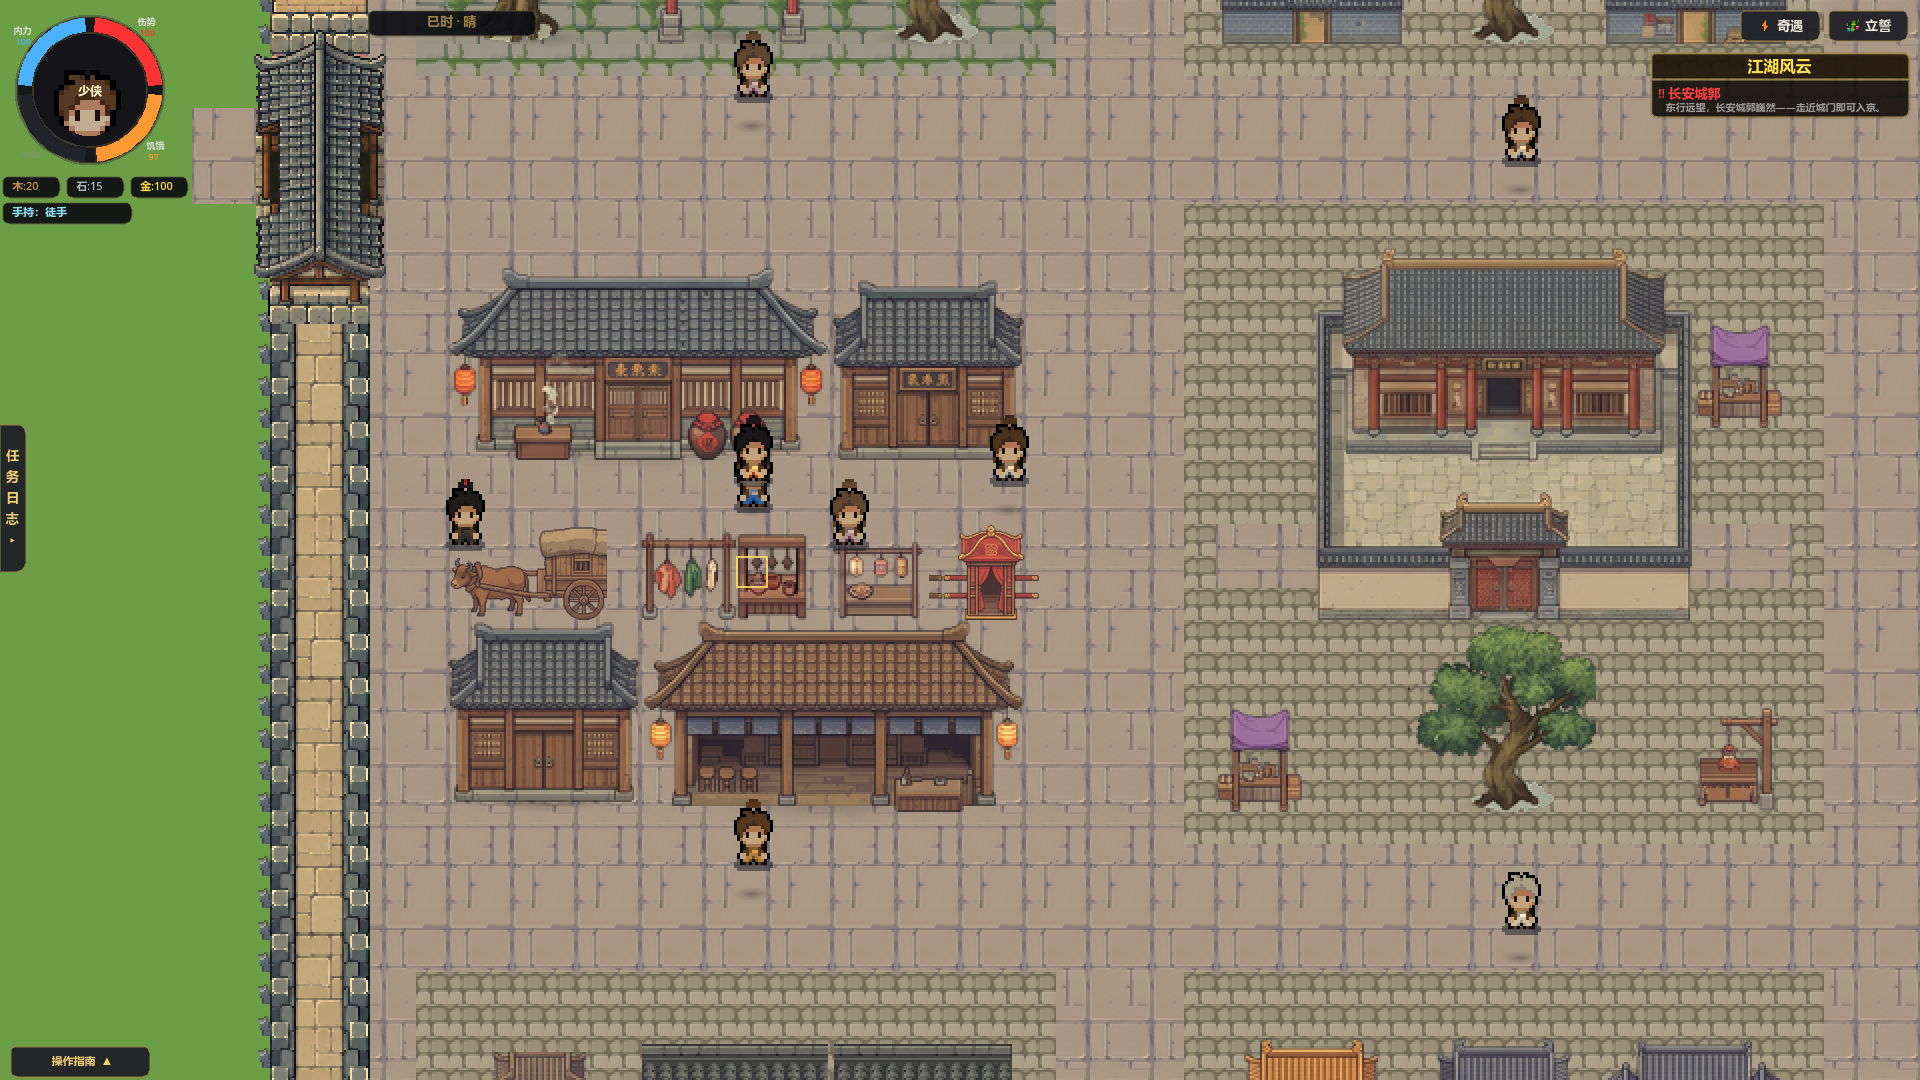
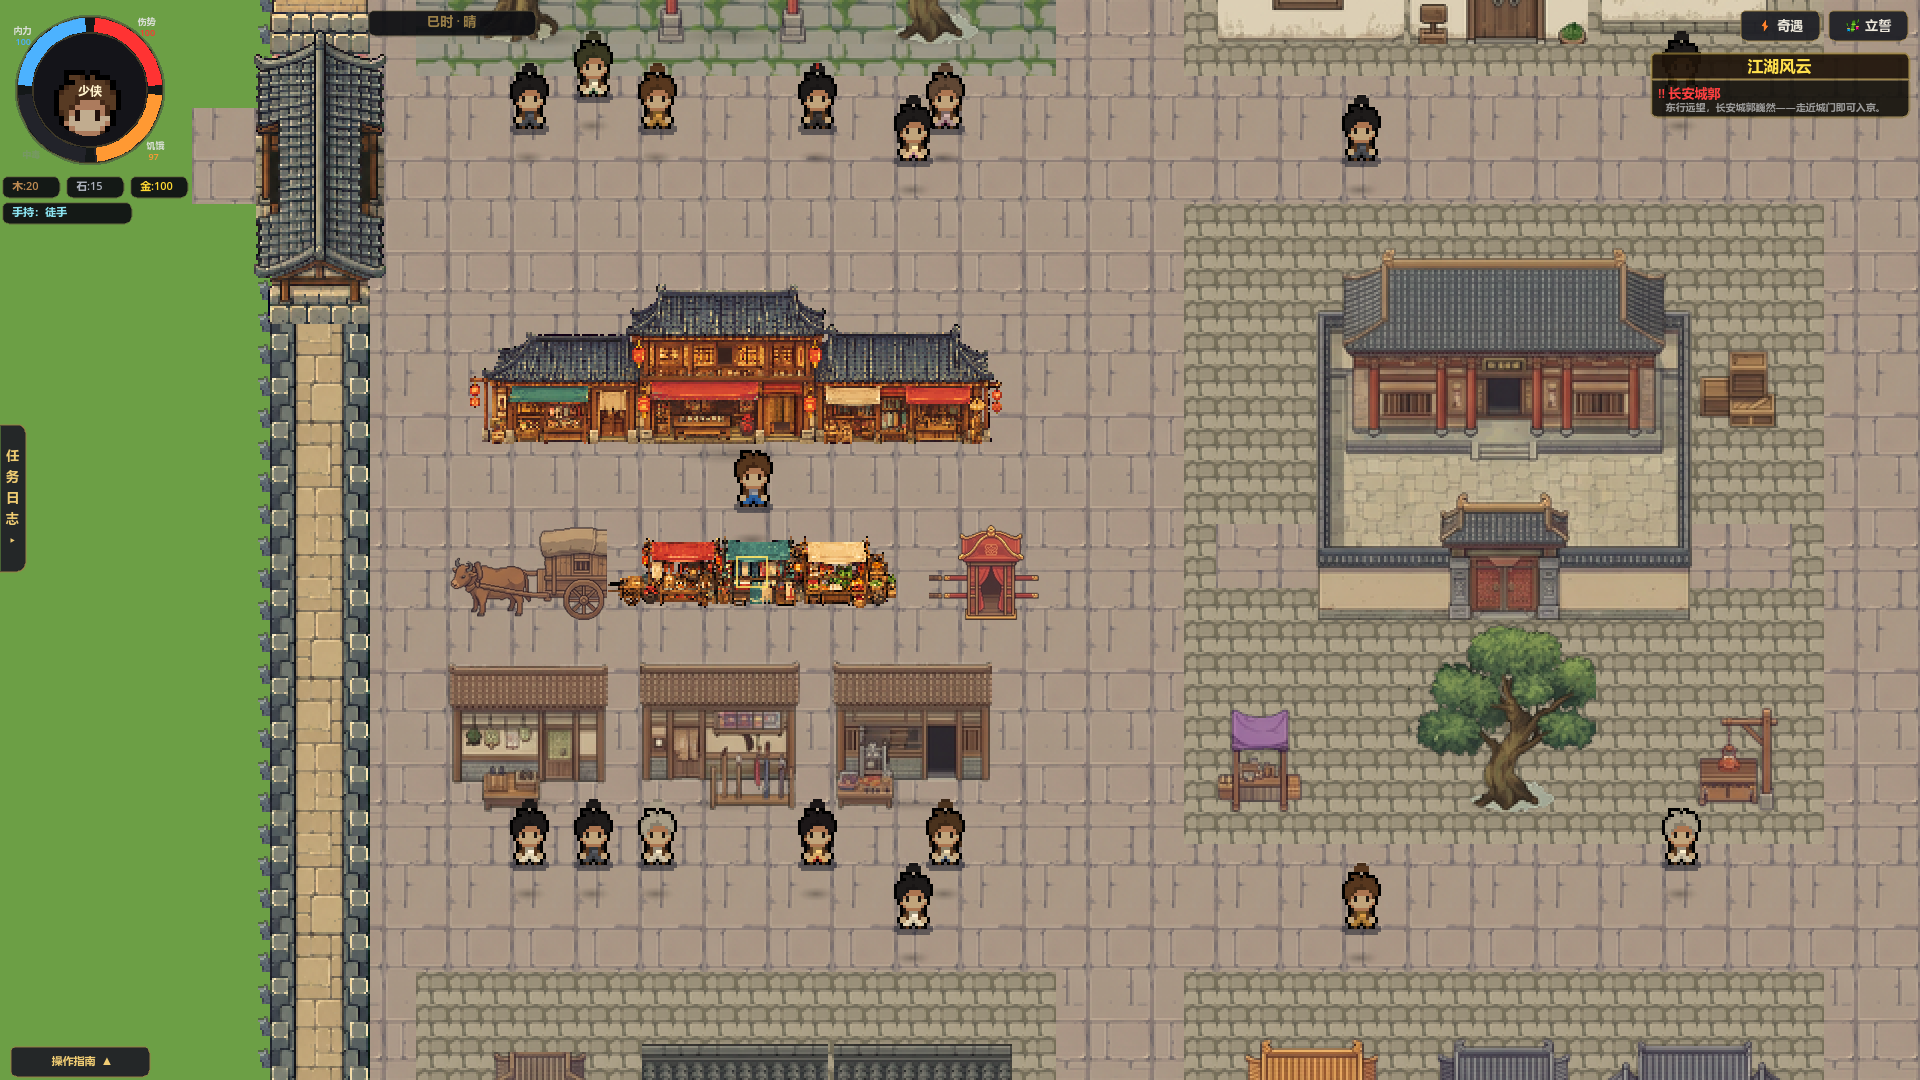
feat: 提升长安城内繁华层次

diff --git a/tools/regress_world.py b/tools/regress_world.py
@@ -19,12 +19,15 @@ def check(group, name, ok, detail="", since="W0"):
     results.append((group, name, bool(ok), detail, since))
 
 def main():
-    with open(pg, encoding="utf-8") as f:
+    with open(pg, "rb") as f:
         original = f.read()
     try:
-        if MARKER not in original:
-            patched = original.replace("[autoload]\n", "[autoload]\n\n" + MARKER + "\n", 1)
-            with open(pg, "w", encoding="utf-8") as f:
+        marker_bytes = MARKER.encode("utf-8")
+        if marker_bytes not in original:
+            eol = b"\r\n" if b"[autoload]\r\n" in original else b"\n"
+            header = b"[autoload]" + eol
+            patched = original.replace(header, header + eol + marker_bytes + eol, 1)
+            with open(pg, "wb") as f:
                 f.write(patched)
         if os.path.exists(gp):
             os.remove(gp)
@@ -43,13 +46,9 @@ def main():
             print("FATAL: game run timed out (180s)")
             sys.exit(2)
     finally:
-        with open(pg, encoding="utf-8") as f:
-            cur = f.read()
-        cur = cur.replace("\n" + MARKER, "").replace(MARKER, "")
-        # 补丁插入残留的空行清掉（否则每次回归留下+1空行脏diff，与run_w8_shots.py同款修复）
-        cur = cur.replace("[autoload]\n\n\n\n", "[autoload]\n\n").replace("[autoload]\n\n\n", "[autoload]\n\n")
-        with open(pg, "w", encoding="utf-8") as f:
-            f.write(cur)
+        # 字节级恢复，保留运行前的内容、换行与 BOM；用户的并行编辑不被规范化。
+        with open(pg, "wb") as f:
+            f.write(original)
 
     if not os.path.exists(jp):
         print("FATAL: no data json produced; log tail:")

diff --git a/tools/import_sckr_changan.py b/tools/import_sckr_changan.py
@@ -269,6 +269,10 @@ AI_PROPS = [
     ("outer_wall_h_ai_b", "outer_wall_horizontal_magenta.png", (792, 248, 984, 440), (192, 192), (64, 64)),
     ("outer_gate_h_ai", "outer_gate_horizontal_magenta.png", (510, 60, 1350, 780), (840, 720), (168, 144)),
     ("terrace_stairs_ai", "terrace_stairs_magenta.png", (79, 64, 2095, 640), (2016, 576), (336, 96)),
+    ("market_arcade_ai", "market_arcade_magenta.png", (78, 26, 2094, 698), (2016, 672), (288, 96)),
+    ("tree_blossom_ai", "blossom_tree_transparent.png", (0, 0, 1254, 1254), (1280, 1280), (128, 128)),
+    ("stall_market_cluster_ai", "market_stall_cluster_magenta.png", (124, 50, 1996, 674), (1872, 624), (144, 48)),
+    ("urban_row_ai", "urban_row_magenta.png", (78, 26, 2094, 698), (2016, 672), (288, 96)),
 ]
 
 # ---- tile 清单：16×16 整窗（TileMap 图集源，不修边）----
@@ -735,7 +739,8 @@ def main():
             assets.append({"name": name, "kind": "prop", "category": cat_of(name),
                            "sheet": rel, "box": list(box)})
         for name, rel, source_box, _canvas_size, output_size in AI_PROPS:
-            assets.append({"name": name, "kind": "prop", "category": "building",
+            kind = "building" if name in {"market_arcade_ai", "urban_row_ai"} else "prop"
+            assets.append({"name": name, "kind": kind, "category": "building",
                            "sheet": "art_sources/imagegen/changan_v2/" + rel,
                            "box": [0, 0, output_size[0], output_size[1]],
                            "source_box": list(source_box),

diff --git a/tools/run_changan_e2e.py b/tools/run_changan_e2e.py
@@ -24,12 +24,15 @@ print("CITY_VERSION=%d -> %s" % (CITY_VERSION, MARKER.split("=")[0]))
 
 
 def main():
-    with open(pg, encoding="utf-8") as f:
+    with open(pg, "rb") as f:
         original = f.read()
     try:
-        if MARKER not in original:
-            patched = original.replace("[autoload]\n", "[autoload]\n\n" + MARKER + "\n", 1)
-            with open(pg, "w", encoding="utf-8") as f:
+        marker_bytes = MARKER.encode("utf-8")
+        if marker_bytes not in original:
+            eol = b"\r\n" if b"[autoload]\r\n" in original else b"\n"
+            header = b"[autoload]" + eol
+            patched = original.replace(header, header + eol + marker_bytes + eol, 1)
+            with open(pg, "wb") as f:
                 f.write(patched)
         if os.path.exists(gp):
             os.remove(gp)
@@ -49,7 +52,8 @@ def main():
             print("FATAL: E2E probe timed out (180s)")
             sys.exit(2)
     finally:
-        with open(pg, "w", encoding="utf-8") as f:
+        # 字节级恢复：不得把用户当前 project.godot 的 LF/CRLF 或 BOM 顺手改写。
+        with open(pg, "wb") as f:
             f.write(original)
     print("project.godot restored")
     with open(gp, "r", encoding="utf-8", errors="replace") as f:

diff --git a/tools/run_changan_v2_shots.py b/tools/run_changan_v2_shots.py
@@ -12,12 +12,15 @@ MARKER = 'ProbeChanganV2Shots="*res://tools/probe_changan_v2_shots.gd"'
 
 
 def main():
-    with open(pg, encoding="utf-8") as f:
+    with open(pg, "rb") as f:
         original = f.read()
     try:
-        if MARKER not in original:
-            patched = original.replace("[autoload]\n", "[autoload]\n\n" + MARKER + "\n", 1)
-            with open(pg, "w", encoding="utf-8") as f:
+        marker_bytes = MARKER.encode("utf-8")
+        if marker_bytes not in original:
+            eol = b"\r\n" if b"[autoload]\r\n" in original else b"\n"
+            header = b"[autoload]" + eol
+            patched = original.replace(header, header + eol + marker_bytes + eol, 1)
+            with open(pg, "wb") as f:
                 f.write(patched)
         if os.path.exists(gp):
             os.remove(gp)
@@ -32,7 +35,8 @@ def main():
             proc.kill()
         gf.close()
     finally:
-        with open(pg, "w", encoding="utf-8") as f:
+        # 字节级恢复：不得把用户当前 project.godot 的 LF/CRLF 或 BOM 顺手改写。
+        with open(pg, "wb") as f:
             f.write(original)
     print("project.godot restored")
     with open(gp, "r", encoding="utf-8", errors="replace") as f:

diff --git a/docs/长安v2-参考风格差距与缺件清单.md b/docs/长安v2-参考风格差距与缺件清单.md
@@ -1,6 +1,6 @@
 # 长安 v2 参考风格差距与缺件清单
 
-更新时间：2026-09-12
+更新时间：2026-09-13
 
 ## 参考图提取出的目标语言
 
@@ -66,10 +66,24 @@
 - 高差：新增 21×6 格宫城高台，暖石台面、青灰挡墙和中央四格石阶与新城墙同色；挡墙两翼有实体碰撞，中央石阶可通行，殿宇继续按底边 Y-sort 落在台面前后。
 - 实机结果：336 个材质件、118 个接地阴影、98 个实体碰撞、27 个活动件、4 辆车、4 个水岸生活件、40 名 NPC；168×142、28 坊、四门、Portals、冻结主街和 BFS=0 未改变。
 
+## 2026-09-13 城内繁华度第五轮
+
+本轮按新概念图优先做城内，外郭城墙连接处明确后置且没有继续改动：
+
+- 新增一套两层主楼带左右店面的 `market_arcade_ai`，东西市和平康坊各落一组，形成稳定的高—低屋脊节奏。
+- 新增较克制的四联 `urban_row_ai`，分散到班政、延寿、昌明三处平民坊，避免亮色只像三块市场贴片。
+- 新增三联彩棚 `stall_market_cluster_ai`，缩成牛车与小轿之间可放入的 144×48 模块；两市和平康坊各有一组，仍保留道路入口。
+- 新增透明春日花树，并在坊内绿化候选中确定性混入；朱雀大街两侧增加 20 盏红灯，中央四格净宽不变。
+- 静态生活 NPC 由 40 增到 72：朱雀轴分四拍布置，两市入口形成聚点，横街补足行人但避开中央通行线。
+- 实机结果：350 个材质件、113 个接地阴影、93 个实体碰撞、28 个活动件、4 辆车、4 个水岸生活件、72 名 NPC；168×142、28 坊、四门、Portals、冻结主街和 BFS=0 保持不变。
+- 验收结果：结构探针 PASS；12 个真实窗口机位 + 3 张光照对照全部写盘；主场景 E2E 全 PASS；开放世界回归 94/94；三份日志无脚本错误、引擎错误或泄漏。
+
+本轮之后，繁华可信度的主要差距已从“没有连续店面/人群稀少”收敛为：皇城官署空地偏大、普通坊仍缺作坊功能簇、NPC 外观与动作重复、炊烟/旗幡/水面等动态不足。外郭墙角件、横竖墙接口和门肩收口继续作为最后一轮独立任务，不与城内增密混做。
+
 当前仍缺的生成素材按优先级收敛为：
 
 1. 台地四向侧/背壁、凹凸角、端帽和东西/北向阶梯——用于把宫城纵切扩到皇城与寺观。
 2. 外郭墙四角和门肩专用收口——现有四边直段已统一，但近景角部仍需要更自然的连续构件。
 3. 模块化院墙转角、月洞门、连廊与建筑侧/背面——用于把中南住宅从连续正面进一步推进到不规则院落群。
 4. 曲江弧形岸石、码头台阶、系船桩和短栈桥——当前水体尺度成立，岸线细节仍偏方格化。
-5. 同色系二层街楼、角楼与短檐连接件——用于继续打破住宅和商铺同高屋檐。
+5. 同色系二层街楼已完成首批商铺/商住连排；仍缺角楼、巷口转角与更短的连接檐变体。

diff --git a/AI_COLLABORATION.md b/AI_COLLABORATION.md
@@ -431,3 +431,14 @@
 - 另一条线需要知道：未修改或暂存用户 TMX、`tools/godot_path.txt` 与玩法 UID；这些仍属于其他在制内容。
 - 下一步：Image 2.0 补台地侧/背壁、凹凸角、四向阶梯、院墙转角和建筑侧/背面；按宫城纵切方式逐区实机验收后再扩。
 - Git commit：随当前视觉提交落库。
+
+### 2026-09-13 16:34｜视觉世界线｜城内繁华度第五轮
+
+- 状态：阶段完成；外郭墙与四门按用户要求冻结，连接处留到最后一轮。
+- 改动文件：四张 Image 2.0 城内生成源及四张透明派生件、切片 manifest、长安生成器/材质层、三份 v2 探针、三套注入 runner、十二机位与三张光照样张、差距清单。
+- 完成内容：东西市/平康坊加入高低错落连排商铺和三联彩棚；三处平民坊加入克制的商住连排；朱雀大街加入 20 盏成对红灯；城内静态人口 40→72，并优先沿朱雀轴与两市入口聚集。
+- 稳定接口变化：`stats.population` 的验收契约更新为 72；新增节点组 `changan_bustling_frontage`、`changan_market_cluster`、`changan_urban_frontage`、`changan_blossom_tree`、`changan_axis_lantern` 仅供视觉/物理探针。四门 side、`gate_info`、Portals、街区 id、冻结街网、BFS 与共享热点均未改。
+- 验证命令与结果：结构 PASS（350 材质、113 阴影、93 碰撞、28 活动件、4 车辆、4 水岸生活、72 NPC、BFS=0）；窗口 12 机位 + 光照 A/B 3 张 PASS；主场景 E2E 全 PASS；开放世界 94/94；三份日志零错误/泄漏；`project.godot` SHA-256 运行前后字节一致。
+- 另一条线需要知道：未修改或暂存用户 TMX、参考图删除现场、`project.godot`、`tools/godot_path.txt`、Godot `.import` 与玩法 UID；这些仍属于其他现场。
+- 下一步：先继续皇城院落和次级巷道生活簇；城墙四角/横竖接口/门肩收口坚持末轮处理。
+- Git commit：随当前视觉提交落库。

diff --git a/art_sources/imagegen/changan_v2/README.md b/art_sources/imagegen/changan_v2/README.md
@@ -11,5 +11,9 @@
 - `outer_wall_horizontal_magenta.png`：以前一张竖墙源为精确色板和像素密度参考，生成同族东西横向墙顶步道；上下青灰垛墙、中间暖灰步道，严格俯视、正交、纯洋红背景，禁止正面立面、门楼和转角。
 - `outer_gate_horizontal_magenta.png`：以竖向门桥和横向墙顶为精确家族参考，生成同族东西横向屋脊门桥；南北道路从中央穿过，左右短墙帽与横墙对接，严格俯视、正交、纯洋红背景。
 - `terrace_stairs_magenta.png`：以目标概念图、当前宫城实机图和新城墙色板为参考，生成宽幅暖石台面、青灰挡墙、中央向南大阶梯；严格俯视正交、纯洋红背景，无建筑、人物和绿植，用作宫城可通行高台。
+- `market_arcade_magenta.png`：以用户概念图的繁华层次和项目现有俯视像素建筑为双参考，生成一整排唐风商业街面；左低、中高两层、右中等屋脊，灰蓝瓦、暖木、红灯笼和青红米色布棚，纯洋红背景，无人物、树木、文字和地面。
+- `market_stall_cluster_magenta.png`：生成一组红/青/米色相间的三联唐风摊市，包含货筐、陶罐、悬挂货物、手车与木箱；严格俯视正交、纯洋红背景，无建筑、人物、树木和文字。
+- `blossom_tree_transparent.png`：生成一株宽冠成熟春日桃花树，粉白花团、暖棕枝干，像素密度和树冠语言贴合项目现有绿树；透明背景，无地面、建筑、人物和文字。
+- `urban_row_magenta.png`：以新生成两市商铺为直接画风参考，以当前实机全景校准亮度，生成四联唐风商住街面；一层与二层屋脊交替、灰蓝瓦和暖木为主、少量红灯笼与布棚，纯洋红背景，无地面、城墙、人物和绿植。
 
 正式派生件只允许整数倍 `NEAREST` 缩放；东西侧可水平镜像，但禁止把正面墙或正面门楼旋转成侧向素材。
